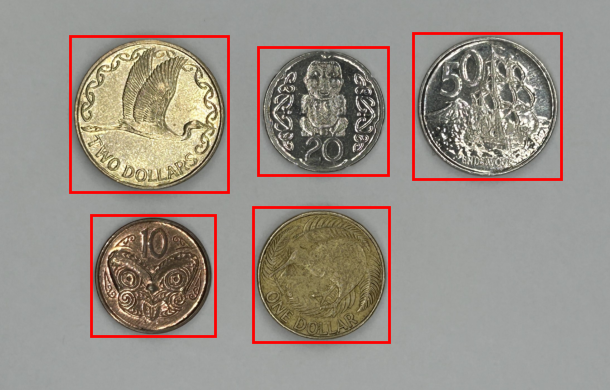
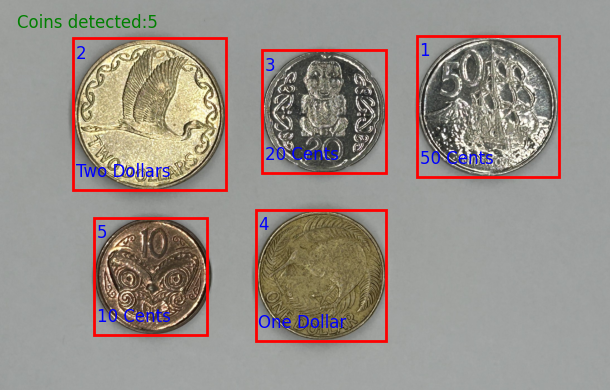
Finished hard cases

Changed region(s): [[0.0311, 0.0308, 0.9344, 0.8615], [0.4049, 0.5231, 0.6541, 0.8923]]

diff --git a/CS373_coin_detection_extension.py b/CS373_coin_detection_extension.py
@@ -1,20 +1,25 @@
 # Built in packages
+import math
 import sys
 
-# Matplotlib will need to be installed if it isn't already. This is the only package allowed for this base part of the
+# Matplotlib will need to be installed if it isn't already. This is the only package allowed for this base part of the 
 # assignment.
 from matplotlib import pyplot
 from matplotlib.patches import Rectangle
 
 # import our basic, light-weight png reader library
 import imageIO.png
+from Utils.adaptive_thresholding import get_adaptive_thresholding
 from Utils.connectedness_analysis import connected_region_labelling
-from Utils.contrast_stretch import contrast_stretch
+from Utils.contrast_stretch import contrast_stretch, get_histogram
 from Utils.convert_to_greyscale import convert_to_greyscale
-from Utils.edge_detection import edge_map
-from Utils.find_region_bound import find_region_bounds
+from Utils.edge_detection import edge_map, laplacian_filter
+from Utils.find_region_bound import find_region_bounds, find_valid_region_bounds
+from Utils.identify_coin import identify_coin
 from Utils.mean_filter import image_blur
+from Utils.median_filter import apply_median
 from Utils.morphology import dilate, erode
+from Utils.show_histogram import plot_histogram
 from Utils.threshold_image import threshold_image
 
 # Define constant and global variables
@@ -79,8 +84,8 @@ def createInitializedGreyscalePixelArray(image_width, image_height, initValue=0)
 # This is our code skeleton that performs the coin detection.
 def main(input_path, output_path):
     # This is the default input image, you may change the 'image_name' variable to test other images.
-    image_name = 'easy_case_6'
-    input_filename = f'./Images/easy/{image_name}.png'
+    image_name = 'hard_case_3'
+    input_filename = f'./Images/hard/{image_name}.png'
     if TEST_MODE:
         input_filename = input_path
 
@@ -92,20 +97,25 @@ def main(input_path, output_path):
     ### STUDENT IMPLEMENTATION Here ###
     ###################################
     px_array_grey = convert_to_greyscale(px_array_r, px_array_g, px_array_b)
-    px_stretched_array_grey = contrast_stretch(px_array_grey)  # Step 1
-    px_edge = edge_map(px_stretched_array_grey)  # Step 2
-    px_blurred = image_blur(px_edge, times=3)  # Step 3
-    px_threshold = threshold_image(px_blurred, threshold=22)  # Step 4
+    px_stretched_array_grey = contrast_stretch(px_array_grey)
+    px_edge = laplacian_filter(px_stretched_array_grey)
+    px_median = apply_median(px_edge, times=3)
+
+    threshold = get_adaptive_thresholding(px_median)
+    px_threshold = threshold_image(px_median, threshold=threshold)
     # Step 5
     px_morph = px_threshold
+
     for i in range(5):
         px_morph = dilate(px_morph)
-    for i in range(3):
+    for i in range(4):
         px_morph = erode(px_morph)
+
+
     # Step 6
     labeled_image, region_dict = connected_region_labelling(px_morph)
     # Step 7
-    region_bounds = find_region_bounds(labeled_image)
+    region_bounds, max_coins = find_valid_region_bounds(labeled_image)
     # Initialize an empty list to store the bounding boxes
     bounding_box_list = []
 
@@ -138,7 +148,7 @@ def main(input_path, output_path):
     axs.imshow(px_array, aspect='equal')
 
     # Loop through all bounding boxes
-    for bounding_box in bounding_box_list:
+    for label, bounding_box in zip(region_bounds.keys(), bounding_box_list):
         bbox_min_x = bounding_box[0]
         bbox_min_y = bounding_box[1]
         bbox_max_x = bounding_box[2]
@@ -149,6 +159,14 @@ def main(input_path, output_path):
         bbox_height = bbox_max_y - bbox_min_y
         rect = Rectangle(bbox_xy, bbox_width, bbox_height, linewidth=2, edgecolor='r', facecolor='none')
         axs.add_patch(rect)
+
+        # Add the coin value near the bounding box
+        coin_value = label
+        text_x = bbox_min_x + 5
+        text_y = bbox_min_y + 35  # Adjust the vertical position of the text
+        axs.text(text_x, text_y, str(coin_value), color='b', fontsize=12)
+        axs.text(text_x, bbox_max_y - 25, identify_coin(bbox_width * bbox_height), color='b', fontsize=12)
+    axs.text(30, 50, "Coins detected:" + str(max_coins), color='g', fontsize=12)
 
     pyplot.axis('off')
     pyplot.tight_layout()

diff --git a/Utils/median_filter.py b/Utils/median_filter.py
@@ -1,0 +1,37 @@
+def median_filter(pixel_array):
+    image_height = len(pixel_array)
+    image_width = len(pixel_array[0])
+
+    def get_extended_array():
+        new_pixel_array = [row[:] for row in pixel_array]
+        for r in range(len(new_pixel_array)):
+            new_pixel_array[r].insert(0, 0)
+            new_pixel_array[r].append(0)
+        new_pixel_array.insert(0, [0 for _ in range(image_width + 2)])
+        new_pixel_array.append([0 for _ in range(image_width + 2)])
+        return new_pixel_array
+
+    extended_array = get_extended_array()
+    result_array = [[0 for _ in range(image_width)] for _ in range(image_height)]  # Initialize the array
+
+    for row in range(1, len(extended_array) - 1):
+        for col in range(1, len(extended_array[row]) - 1):
+            value_array = []
+            for i in range(-1, 1 + 1):
+                for j in range(-1, 1 + 1):
+                    pixel_value = extended_array[row + i][col + j]
+                    value_array.append(pixel_value)
+            value_array.sort()
+            length = len(value_array)
+            if length % 2 == 1:
+                result_array[row - 1][col - 1] = value_array[length // 2]
+            else:
+                result_array[row - 1][col - 1] = (value_array[length // 2 - 1] + value_array[length // 2]) / 2
+
+    return result_array
+
+def apply_median(pixel_array, times=3):
+    result_array = pixel_array
+    for i in range(times):
+        result_array = median_filter(result_array)
+    return result_array

diff --git a/Utils/find_region_bound.py b/Utils/find_region_bound.py
@@ -16,3 +16,29 @@ def find_region_bounds(image):
                     region_dict[value]['max_y'] = max(region_dict[value]['max_y'], y)
 
     return region_dict
+
+
+def find_valid_region_bounds(image):
+    region_dict = find_region_bounds(image)
+    valid_regions = {}
+    value = 1
+
+    for region_id, region_bounds in region_dict.items():
+        min_x, max_x = region_bounds['min_x'], region_bounds['max_x']
+        min_y, max_y = region_bounds['min_y'], region_bounds['max_y']
+
+        width = max_x - min_x + 1
+        height = max_y - min_y + 1
+
+        # Check if the size of the box is within valid range
+        if width >= 100 and width <= 400 and height >= 100 and height <= 400:
+            # Check if the ratio of width/height is close to 1
+            aspect_ratio = width / height
+            if 0.8 <= aspect_ratio <= 1.2:
+                valid_regions[value] = {
+                    'min_x': min_x, 'max_x': max_x,
+                    'min_y': min_y, 'max_y': max_y
+                }
+                value += 1
+
+    return valid_regions, value - 1

diff --git a/Utils/edge_detection.py b/Utils/edge_detection.py
@@ -30,6 +30,13 @@ def edge_filter_y(px_stretched_grey):
     return border_ignore_filter(px_stretched_grey, scharr_x_kernel)
 
 
+def laplacian_filter(px_stretched_grey):
+    laplacian_kernel = [[1.0, 1.0, 1.0],
+                        [1.0, -8.0, 1.0],
+                        [1.0, 1.0, 1.0]]
+    return border_ignore_filter(px_stretched_grey, laplacian_kernel)
+
+
 def edge_map(px_stretched_grey):
     gx = edge_filter_x(px_stretched_grey)
     gy = edge_filter_y(px_stretched_grey)

diff --git a/Utils/identify_coin.py b/Utils/identify_coin.py
@@ -1,0 +1,13 @@
+def identify_coin(area):
+    if abs(area - 64770) < 3000:
+        return "50 Cents"
+    elif abs(area - 73000) < 4000:
+        return "Two Dollars"
+    elif abs(area - 49283) < 3000:
+        return "20 Cents"
+    elif abs(area - 54990) < 3000:
+        return "One Dollar"
+    elif abs(area - 42420) < 3000:
+        return "10 Cents"
+    else:
+        return "Unknown coin"

diff --git a/Utils/adaptive_thresholding.py b/Utils/adaptive_thresholding.py
@@ -1,4 +1,6 @@
 # Unused
+from Utils.histogram import get_histogram
+
 
 def adaptive_thresholding(H):
     N = sum(H)
@@ -27,3 +29,8 @@ def adaptive_thresholding(H):
         theta_j = theta_j1
 
     return theta_j
+
+
+def get_adaptive_thresholding(pixel_array):
+    histogram = get_histogram(pixel_array)
+    return adaptive_thresholding(histogram)

diff --git a/Utils/histogram.py b/Utils/histogram.py
@@ -1,8 +1,13 @@
+import math
+
+
 def get_histogram(px_array_grey):
     histogram = [0] * 256
     for row in px_array_grey:
         for pixel in row:
-            histogram[round(pixel)] += 1
+            abs_pixel = int(abs(pixel))
+            if 0 <= abs_pixel <= 255:
+                histogram[abs_pixel] += 1
     return histogram
 
 
